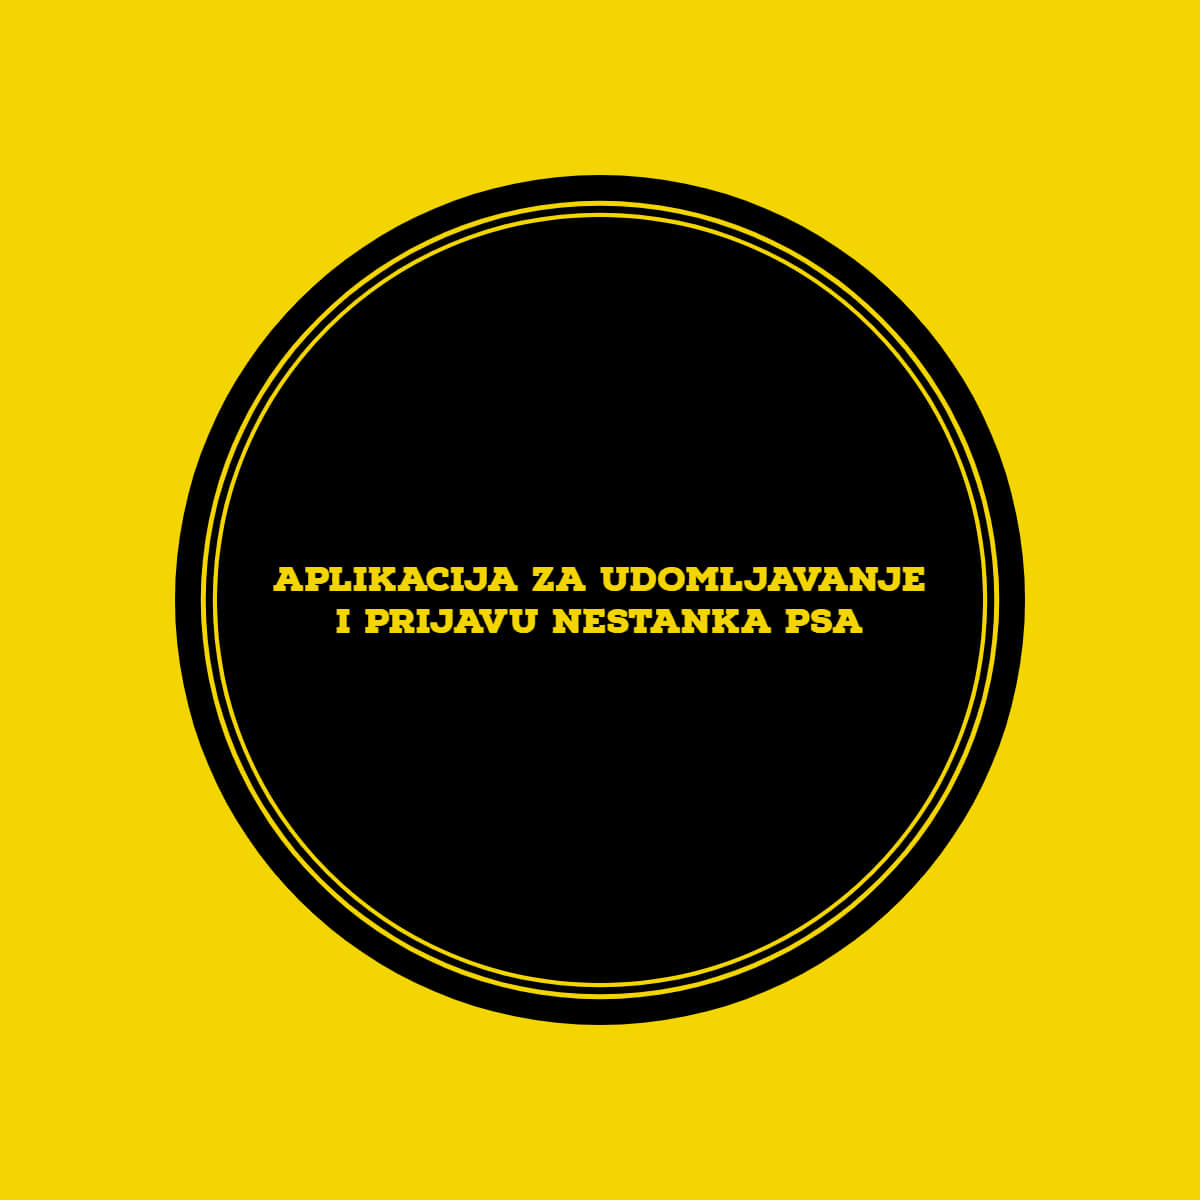
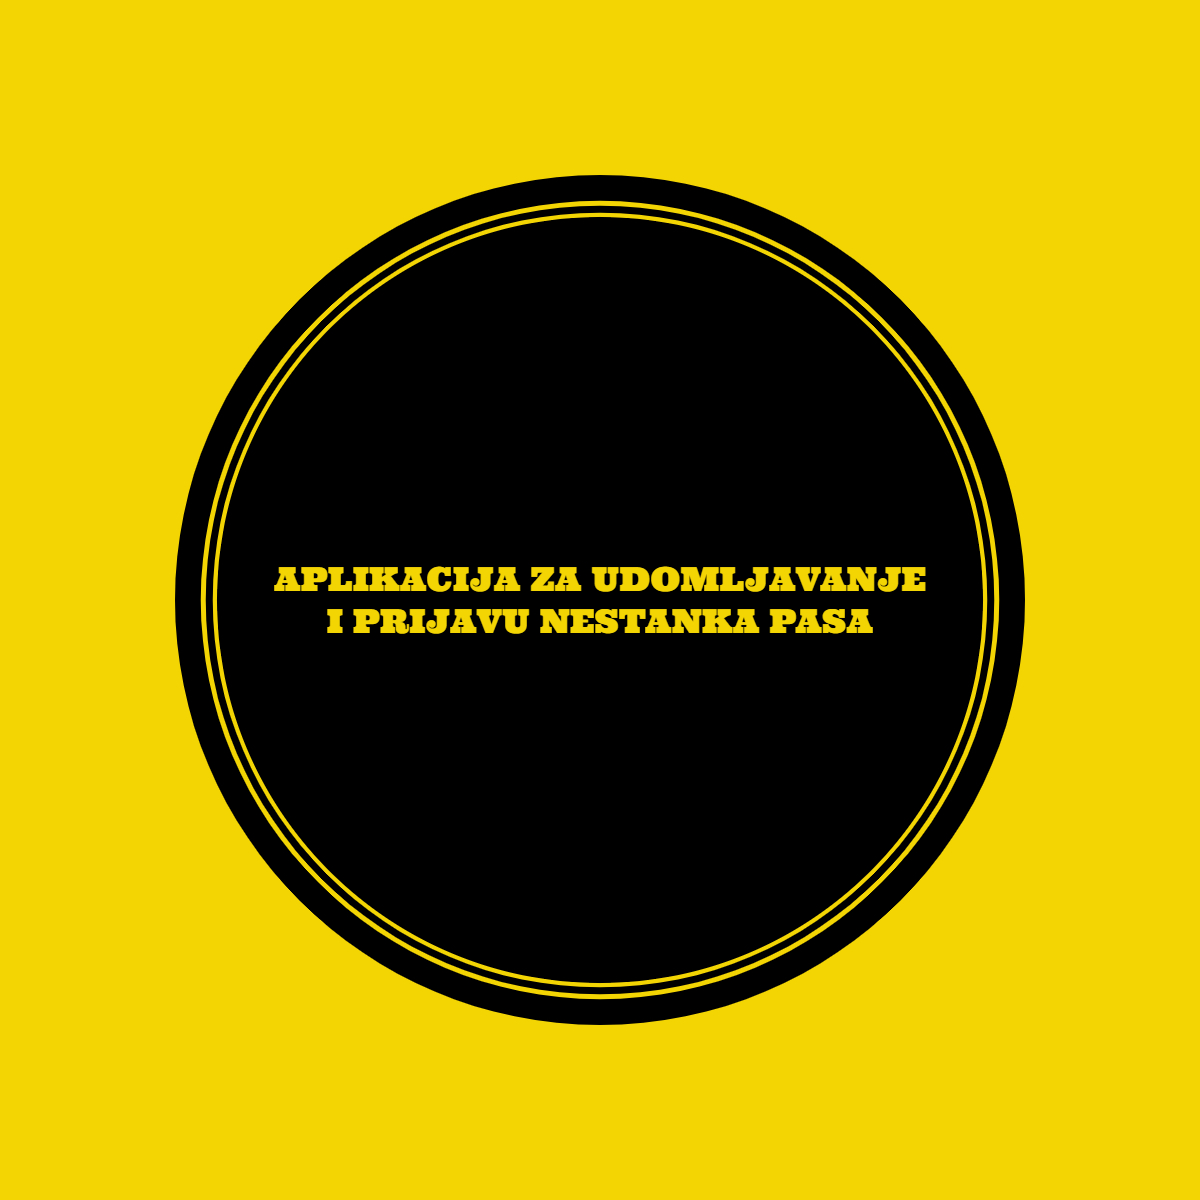
fin

diff --git a/Web_app/frontend/src/views/pocetna.vue b/Web_app/frontend/src/views/pocetna.vue
@@ -24,7 +24,7 @@
           />
           <div class="carousel-caption d-none d-md-block">
             <h5 style="color: black">
-              Dobrodošao na aplikaciju za udomljavanje i prijavu nestanka psa
+              Dobrodošao na aplikaciju za udomljavanje i prijavu nestanka pasa
             </h5>
           </div>
         </div>
@@ -53,7 +53,7 @@
             <h5 style="color: black">Oglasi</h5>
             <p style="color: black">
               Pregledajte ili postavite oglase za udomljavanje ili prijavu
-              nestanka psa
+              nestanka pasa
             </p>
           </div>
         </div>

diff --git a/Mob_app/app/src/main/java/com/example/dog_app/home.java b/Mob_app/app/src/main/java/com/example/dog_app/home.java
@@ -27,9 +27,9 @@ public class home extends Fragment {
         TabLayout tabLayout = (TabLayout) view.findViewById(R.id.tabLayout);
 
         int[] images={R.drawable.firstpic,R.drawable.secondpic,R.drawable.thirdpic};
-        String[] heading ={"Dobrodošao na aplikaciju za udomljavanje i prijavu nestanka psa","Registracija","Oglasi"};
+        String[] heading ={"Dobrodošao na aplikaciju za udomljavanje i prijavu nestanka pasa","Registracija","Oglasi"};
         String[] desc={"","U ovoj aplikaciji se mogu registrirati korisnici i azili",
-        "Pregledajte ili postavite oglase za udomljavanje ili prijavu nestanka psa"};
+        "Pregledajte ili postavite oglase za udomljavanje ili prijavu nestanka pasa"};
         viewPagerItemArrayList=new ArrayList<>();
         for(int i=0;i<images.length;i++){
             ViewPagerItem viewPagerItem=new ViewPagerItem(images[i],heading[i],desc[i]);
